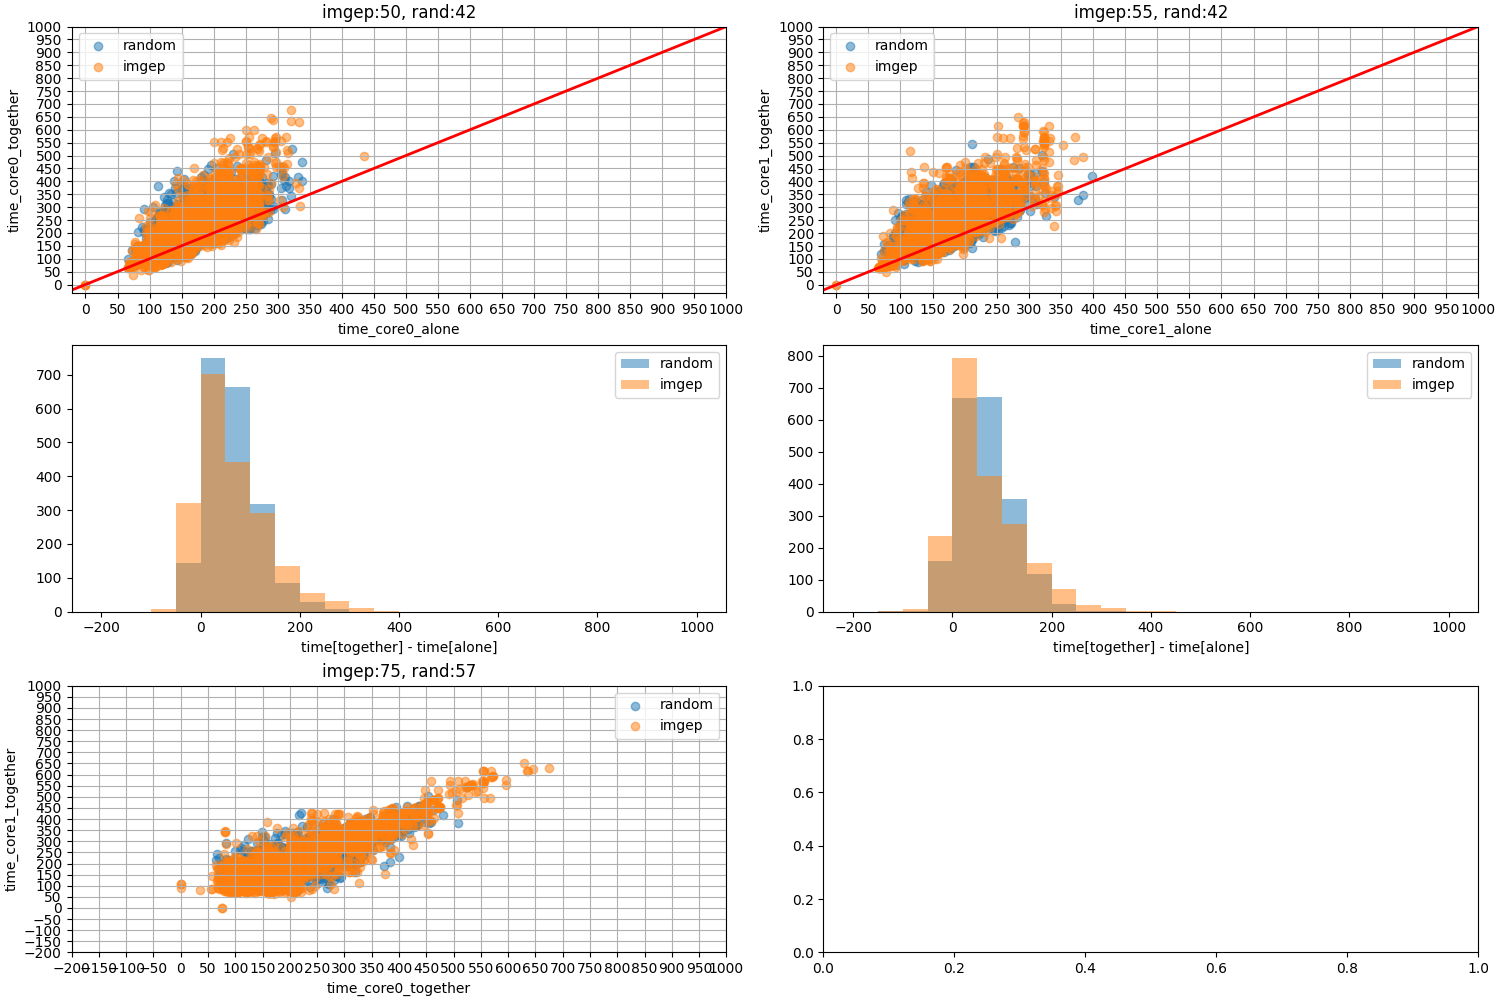
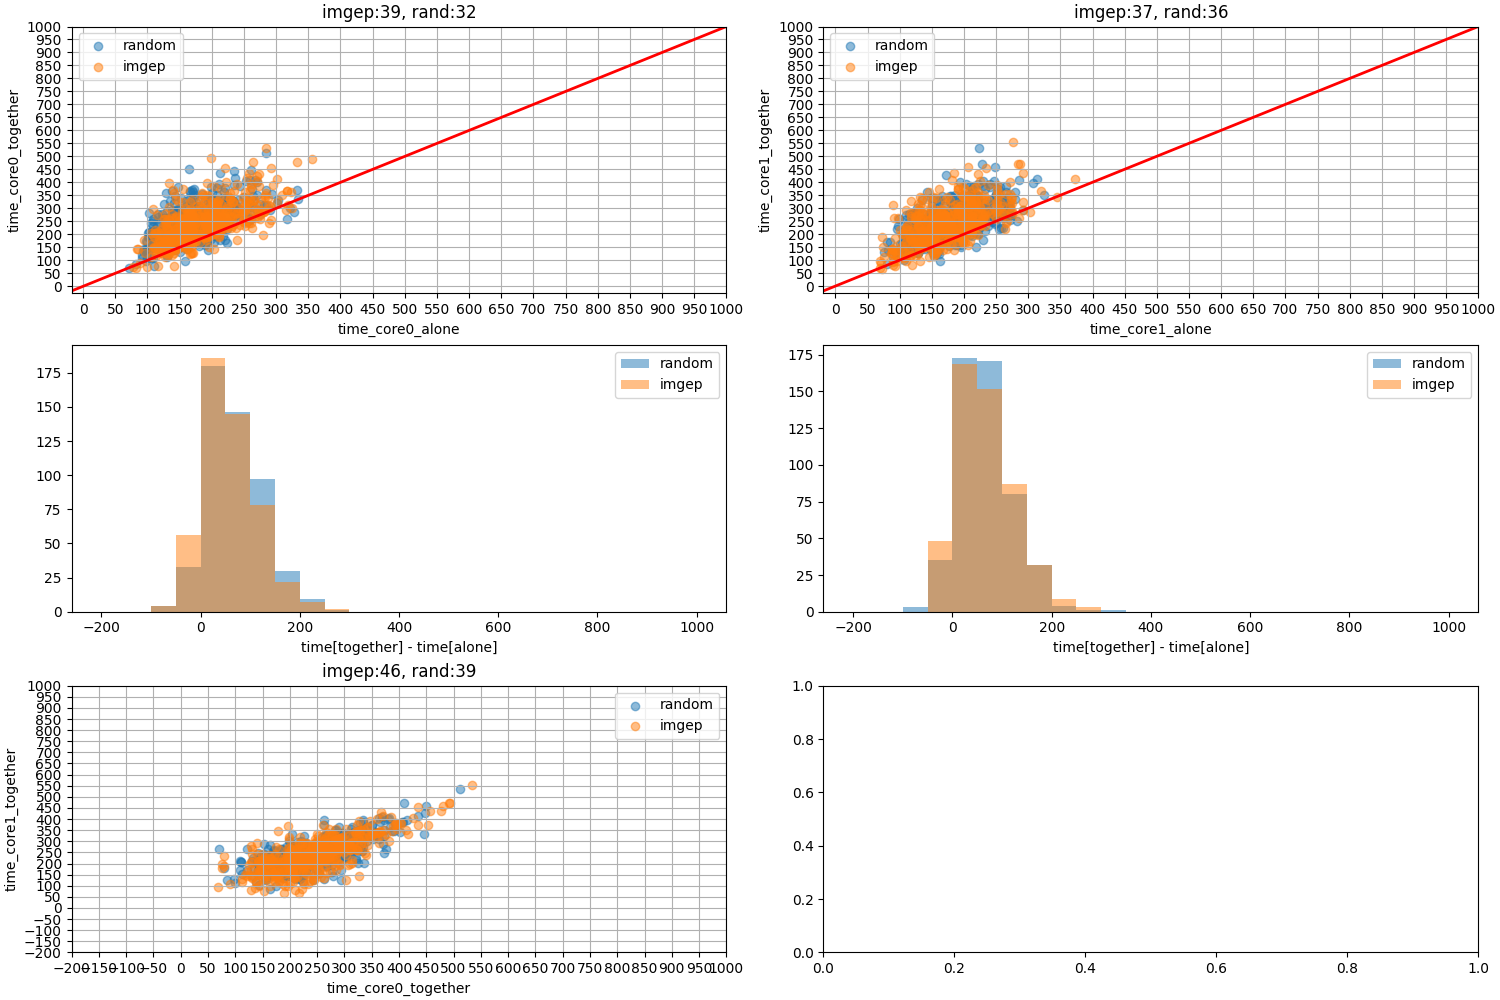
added modules and structered history code

diff --git a/exploration/history.py b/exploration/history.py
@@ -5,18 +5,7 @@ class History:
     def __init__(self, max_size = 100):
         self.max_size = max_size
         self.memory_program = {"core0":[],"core1":[]}
-        self.memory_perf = {"miss_ratios":[],
-                            "miss_ratios_core0":[],            
-                            "miss_ratios_core1":[],            
-                            "time_core0_together":[],
-                            "time_core1_together":[],
-                            "time_core0_alone":[],
-                            "time_core1_alone":[],
-                            "miss_count":[],
-                            "miss_count_core0":[],
-                            "miss_count_core1":[],
-                                                }
-        #self.k=0
+        self.memory_perf = {}
     def stats2(self):
         out = {key:{"min":np.min(self.memory_perf[key],axis=0),"max":np.max(self.memory_perf[key],axis=0)} for key in self.memory_perf.keys()}
         return out
@@ -33,22 +22,12 @@ class History:
         for j in range(len(sample["program"]["core0"])):
             self.memory_program["core0"].append(sample["program"]["core0"][j])
             self.memory_program["core1"].append(sample["program"]["core1"][j])
-        self.memory_perf["miss_ratios"].append(list(sample["perf"]))
-        self.memory_perf["miss_ratios_core0"].append(list(sample["perf_core0"]))
-        self.memory_perf["miss_ratios_core1"].append(list(sample["perf_core1"]))
-        self.memory_perf["time_core0_together"].append(sample["time_core0_together"])
-        self.memory_perf["time_core1_together"].append(sample["time_core1_together"])
-        self.memory_perf["time_core0_alone"].append(sample["time_core0_alone"])
-        self.memory_perf["time_core1_alone"].append(sample["time_core1_alone"])
-        self.memory_perf["miss_count"].append(sample["miss_count"])
-        self.memory_perf["miss_count_core0"].append(sample["miss_count_core0"])
-        self.memory_perf["miss_count_core1"].append(sample["miss_count_core1"])
-
-        self.memory_perf["diff_ratios_core0"] = np.abs(np.array(self.memory_perf["miss_ratios_core0"]) - np.array(self.memory_perf["miss_ratios"]))
-        self.memory_perf["diff_ratios_core1"] = np.abs(np.array(self.memory_perf["miss_ratios_core1"]) - np.array(self.memory_perf["miss_ratios"]))
-        self.memory_perf["diff_time0"] = np.abs(np.array(self.memory_perf["time_core0_alone"]) - np.array(self.memory_perf["time_core0_together"]))
-        self.memory_perf["diff_time1"] = np.abs(np.array(self.memory_perf["time_core1_alone"]) - np.array(self.memory_perf["time_core1_together"]))
-        #self.eviction()
+        for key in sample.keys():
+            if key!="program":
+                if key in self.memory_perf:
+                    self.memory_perf[key].append(np.array(sample[key]))
+                else:
+                    self.memory_perf[key] = [np.array(sample[key])]
     def present_content(self):
         output  = {key:np.array(self.memory_perf[key]) for key in self.memory_perf.keys()}
         return output
@@ -61,21 +40,3 @@ class History:
         output  = {key:np.array(self.memory_perf[key]) for key in self.memory_perf.keys()}
         with open(name, "wb") as f:
             pickle.dump(output, f)
-    def times2ndarray(self)->(np.ndarray,list[str]):
-        keys = ["time_core0_alone", "time_core1_alone","time_core0_together", "time_core1_together"]
-        out = np.array([np.array(self.memory_perf[key]) for key in keys])
-        return out,keys
-    def timesdiff2ndarray(self)->(np.ndarray,list[str]):
-        keys = ["time_core0_alone", "time_core1_alone","time_core0_together", "time_core1_together"]
-        out = np.array([np.abs(np.array(self.memory_perf[keys[i+2]]) - np.array(self.memory_perf[keys[i]])) for i in range(2)])
-        return out,["diff_time0", "diff_time1"]
-    def miss2ndarray(self, bank:int):
-        keys = ["miss_ratios_core0","miss_ratios_core1","miss_ratios"]
-        out = np.array([np.array(self.memory_perf[key])[:,bank] for key in keys])
-        return out,keys
-    def miss_count_2ndarray(self, bank:int):
-        keys = ["miss_count_core0","miss_count_core1","miss_ratios"]
-        out = np.array([np.array(self.memory_perf[key])[:,bank] for key in keys])
-        return out,keys
-    def missdiff2ndarray(self):
-        return np.stack((self.memory_perf["diff_time0"],self.memory_perf["diff_time1"]))

diff --git a/test.py b/test.py
@@ -12,9 +12,8 @@ import matplotlib.pyplot as plt
 from visu import representation, comparaison
 
 if __name__=="__main__":
-    #random.seed(0)
     N = int(2000)
-    N_init = 500
+    N_init = 200
     #N = 10
     #N_init = 3
     max_len = 1000  
@@ -23,11 +22,11 @@ if __name__=="__main__":
     periode = 20
     num_bank = 4 # n'est pas variable, a changer dans la classe Env
     mutation_rate = .1
+    En = Env(length_programs=length_programs, max_len=max_len)
 
     H_rand = History(max_size= N)
     H2_rand = History(max_size=N)
 
-    En = Env(length_programs=length_programs, max_len=max_len)
     rand = RANDOM(N = N,E = En, H = H_rand, H2 = H2_rand)
     if False:
         rand()
@@ -35,8 +34,8 @@ if __name__=="__main__":
         H_rand.save_pickle(f"history_rand_N_{N}")
     with open(f"data/history_rand_N_{N}_{0}", "rb") as f:
         content_random = pickle.load(f)
-    modules = ["time"]+ ["time_diff"]+[f"miss_bank_{j}" for j in range(num_bank)]+["ratios_diff"]+ [f"miss_count_bank_{j}" for j in range(num_bank)]
-    for k in []:
+    modules = ["time"]+ ["time_diff"]+[f"miss_bank_{j}" for j in range(num_bank)]+[f"miss_count_bank_{j}" for j in range(num_bank)]+[f"diff_ratios_bank_{j}" for j in range(num_bank)]
+    for k in [3]:
         print(f"start: k = {k}")
         G = GoalGenerator(num_bank = num_bank)
         Pi = OptimizationPolicykNN(k=k,mutation_rate=mutation_rate,max_len=50)
@@ -45,8 +44,9 @@ if __name__=="__main__":
         imgep()
         H_imgep.save_pickle(f"history_kNN_{k}_N_{N}")
         print(f"done: k = {k}")
-    N = 2000
-    for k_moins_un,name in enumerate([f"data/history_kNN_{k}_N_{N}_0" for k in range(1,4)]):
-        with open(name, "rb") as f:
-            content_imgep = pickle.load(f)
-        comparaison(content_random, content_imgep, name = [f"image/comp_ratios_{k_moins_un +1}",f"image/comp_times_k{k_moins_un+1}"])
+    N = 500
+    if True:
+        for k_moins_un,name in enumerate([f"data/history_kNN_{k}_N_{N}_0" for k in [3]]):
+            with open(name, "rb") as f:
+                content_imgep = pickle.load(f)
+            comparaison(content_random, content_imgep, name = [f"image/comp_ratios_{k_moins_un +1}",f"image/comp_times_k{k_moins_un+1}"])

diff --git a/exploration/imgep/OptimizationPolicy.py b/exploration/imgep/OptimizationPolicy.py
@@ -46,15 +46,25 @@ class OptimizationPolicykNN:
     def select_closest_codes(self,H:History,signature: np.ndarray,module:str)->dict:
         assert len(H.memory_program)>0, "history empty"
         if module=="time":
-            b,_ = H.times2ndarray()
+            keys = ["time_core0_alone", "time_core1_alone","time_core0_together", "time_core1_together"]
+            b = np.array([np.array(H.memory_perf[key]) for key in keys])
         elif module in [f"miss_bank_{j}" for j in range(4)]:
-            b,_ = H.miss2ndarray(int(module[-1]))
+            keys = ["miss_ratios_core0","miss_ratios_core1","miss_ratios"]
+            bank = int(module[-1])
+            b = np.array([np.array(H.memory_perf[key])[:,bank] for key in keys])
         elif module in [f"miss_count_bank_{j}" for j in range(4)]:
-            b,_ = H.miss_count_2ndarray(int(module[-1]))
+            keys = ["miss_count_core0","miss_count_core1","miss_ratios"]
+            bank = int(module[-1])
+            b = np.array([np.array(H.memory_perf[key])[:,bank] for key in keys])
         elif module=="time_diff":
-            b,_ = H.timesdiff2ndarray()
-        elif module=="ratios_diff":
-            b,_ = H.missdiff2ndarray()
+            keys = ["time_core0_alone", "time_core1_alone","time_core0_together", "time_core1_together"]
+            b = np.array([np.abs(np.array(H.memory_perf[keys[i+2]]) - np.array(H.memory_perf[keys[i]])) for i in range(2)])
+        elif module in [f"diff_ratios_bank_{j}" for j in range(4)]:
+            bank = int(module[-1])
+            keys = [f"diff_ratios_core{j}" for j in range(2)]
+            b = np.array([np.array(H.memory_perf[key])[:,bank] for key in keys])
+        ##########################################
+        print("module", module)
         d = self.loss(signature,b)
         idx = np.argsort(d)[:self.k]
         output = {"program": {"core0":[],"core1":[]},}

diff --git a/exploration/imgep/goal_generator.py b/exploration/imgep/goal_generator.py
@@ -10,7 +10,7 @@ class GoalGenerator:
         self.k_time = 0
         self.k_miss = 0
         time_module = ["time", "time_diff"]
-        self.miss_modules = [f"miss_bank_{j}" for j in range(self.num_bank)]+["ratios_diff"] + [f"miss_count_bank_{j}" for j in range(self.num_bank)]
+        self.miss_modules = [f"miss_bank_{j}" for j in range(self.num_bank)]+["ratios_diff"] + [f"miss_count_bank_{j}" for j in range(self.num_bank)]+[f"diff_ratios_bank_{j}" for j in range(self.num_bank)]
         self.modules = time_module + self.miss_modules
     def __call__(self,H:History, module:str)->dict:
         assert module in self.modules, f"module {module} unknown"
@@ -42,9 +42,19 @@ class GoalGenerator:
                                   stats["miss_count_core1"]["max"][int(module[-1])],
                                   stats["miss_count"]["max"][int(module[-1])])
                                    )
-            #miss_count_target = np.random.uniform(minmiss,maxmiss)
             miss_count_target = 1.5* maxmiss
             return miss_count_target
+        elif module in [f"diff_ratios_bank_{j}" for j in range(self.num_bank)]:
+            minmiss = np.stack((stats["diff_ratios_core0"]["min"][int(module[-1])],
+                                stats["diff_ratios_core1"]["min"][int(module[-1])]
+                                ))
+            minmiss = (1-np.sign(minmiss)*0.4)*minmiss
+            maxmiss = np.stack((stats["diff_ratios_core0"]["max"][int(module[-1])],
+                                  stats["diff_ratios_core1"]["max"][int(module[-1])]
+                                  )
+                                   )
+            diff_ratios_target = 1.5* maxmiss
+            return diff_ratios_target
 
         elif module=="time_diff":
             times = np.concatenate((np.floor(1.0*np.random.randint(stats["diff_time0"]["min"],4.0*stats["diff_time0"]["max"],(1,))),

diff --git a/exploration/env/func.py b/exploration/env/func.py
@@ -24,9 +24,9 @@ class Env:
         program0(parameter["core0"][0],[])
         program1([],parameter["core1"][0])
         return {
-                "perf": program.ratios,
-                "perf_core0": program0.ratios,
-                "perf_core1": program1.ratios,
+                "miss_ratios": program.ratios,
+                "miss_ratios_core0": program0.ratios,
+                "miss_ratios_core1": program1.ratios,
                 "time_core0_together":program.compl_time_core0,
                 "time_core1_together":program.compl_time_core1,
                 "time_core0_alone":program0.compl_time_core0,
@@ -34,6 +34,10 @@ class Env:
                 "miss_count":program.miss_count,
                 "miss_count_core0":program0.miss_count,
                 "miss_count_core1":program1.miss_count,
+                "diff_ratios_core0":np.abs(program.ratios - program0.ratios),
+                "diff_ratios_core1":np.abs(program.ratios - program1.ratios),
+                "diff_time0":np.abs(program.compl_time_core0 - program0.compl_time_core0),
+                "diff_time1":np.abs(program.compl_time_core1 - program1.compl_time_core1)
                 }
     def _make_program(self):
         ddr = DDRMemory()
